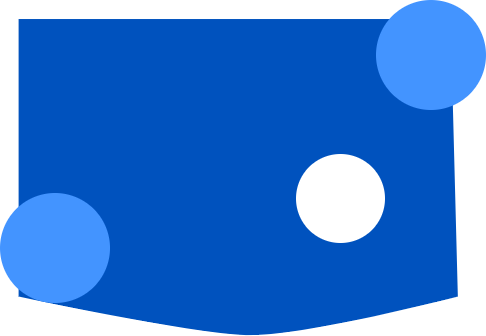
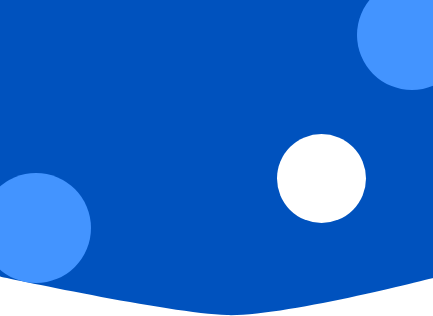
homescreen ui fix

diff --git a/src/screens/home/HomeScreen.tsx b/src/screens/home/HomeScreen.tsx
@@ -18,6 +18,7 @@ import { fetchCountryList } from '../../api/country/CountryListSlice';
 import { fetchCurrencyList } from '../../api/currency/CurrencyListSlice';
 import CountrySelectionModal from '../../components/CountrySelectionModal';
 import { CommonContext } from '../../api/commonContext';
+import HomeScreenSlider from '../../components/HomeScreenSlider';
 const { TextField } = Incubator;
 export type HomeScreenNavigationProps = NativeStackNavigationProp<
   RootStackParams,
@@ -92,15 +93,16 @@ const HomeScreen: React.FC<Props> = () => {
   return (
     <View flex backgroundColor="#FFFFFF" paddingB-60>
       <ImageBackground
-        source={dashboardLists?.data.slider != null ? { uri: 'https://admin-jamal.prompttechdemohosting.com/' + dashboardLists.data.slider[1].file } : null}
+      source={AppImages.BGIMAGE}
+        // source={dashboardLists?.data.slider != null ? { uri: 'https://admin-jamal.prompttechdemohosting.com/' + dashboardLists.data.slider[1].file } : null}
         style={styles.topBackground}
-        resizeMode='contain'
+        resizeMode='stretch'
       >
         <Text style={{ fontSize: 15, fontFamily: AppFonts.POPPINS_SEMIBOLD, color: 'white', width: '30%' }}>Red sea Market</Text>
-        <Text style={{ alignSelf: 'center', fontSize: 16, fontFamily: AppFonts.POPPINS_BOLD, color: 'white' }}>{dashboardLists?.data.slider != null ? dashboardLists?.data.slider.name : ''}</Text>
+      
+      <HomeScreenSlider data={dashboardLists?.data.slider}/>
+
         <View center style={styles.rowContainer}>
-
-
           <SelectDropdown
             data={countryLists?.country || []}
             onSelect={(selectedItem, index) => {
@@ -119,7 +121,7 @@ const HomeScreen: React.FC<Props> = () => {
             rowTextForSelection={(item, index) => {
               return item.name + ', ' + item.code;
             }}
-            buttonStyle={styles.dropdown1BtnStyle}
+            buttonStyle={[styles.dropdown1BtnStyle,{elevation:10}]}
             buttonTextStyle={styles.dropdown1BtnTxtStyle}
             renderDropdownIcon={isOpened => {
               return <Image source={AppImages.ARROW_DOWN} />;
@@ -130,12 +132,11 @@ const HomeScreen: React.FC<Props> = () => {
             rowTextStyle={styles.dropdown1RowTxtStyle}
           />
           <TextField
-            fieldStyle={styles.textFieldStyle}
-            style={{ fontSize: 12 }}
+            fieldStyle={[styles.textFieldStyle,{elevation:10}]}
+            style={styles.text}
             paddingV-5
             paddingH-2
             placeholder={'What are you looking for ?'}
-            keyboardType="default"
             leadingAccessory={<Image source={AppImages.SEARCH} style={{ width: 18, height: 18, right: 5 }} />}
           />
           <SelectDropdown
@@ -143,15 +144,15 @@ const HomeScreen: React.FC<Props> = () => {
             onSelect={(selectedItem, index) => {
               console.log(selectedItem)
             }}
-            defaultButtonText={'Language'}
+            defaultButtonText={'UK'}
             buttonTextAfterSelection={(selectedItem, index) => {
               return selectedItem.name
             }}
             rowTextForSelection={(item, index) => {
               return item.name + ', ' + item.code;
             }}
-            buttonStyle={styles.dropdown1BtnStyle}
-            buttonTextStyle={styles.dropdown1BtnTxtStyle}
+            buttonStyle={[styles.dropdown1BtnStyle,{elevation:10}]}
+            buttonTextStyle={styles.text}
             renderDropdownIcon={isOpened => {
               return <Image source={AppImages.ARROW_DOWN} />;
             }}
@@ -169,11 +170,11 @@ const HomeScreen: React.FC<Props> = () => {
         onRequestClose={() => setShowCountryModal(false)}
       />
 
-      <View padding-20>
+      <View padding-20 marginT-10>
         <Text style={styles.categoryText}>Category</Text>
         <FlatList
           data={dashboardLists?.data.categories}
-          numColumns={4}
+          horizontal={true}
           showsHorizontalScrollIndicator={false}
           renderItem={({ item, index }) => {
             return (
@@ -186,6 +187,7 @@ const HomeScreen: React.FC<Props> = () => {
                     navigation.navigate(RouteNames.CategoryListScreen, { cat_Id: item.id, name: item.name, countryId: commonInput.common_country_id })
                   }
                 }}>
+                  <View center>
                   <Image
                     source={
                       item.image == null
@@ -195,6 +197,8 @@ const HomeScreen: React.FC<Props> = () => {
                     style={{ width: 55, height: 35 }}
                     resizeMode="contain"
                   />
+                  <Text style={styles.categoryTitle}>{item.name}</Text>
+                  </View>
                 </TouchableOpacity>
               </View>
             );

diff --git a/src/components/HomeScreenSlider.tsx b/src/components/HomeScreenSlider.tsx
@@ -1,0 +1,45 @@
+import React, { useEffect, useState } from 'react';
+import Carousel from 'react-native-reanimated-carousel';
+import {  Text, View } from 'react-native-ui-lib';
+import { Dimensions, FlatList, Image } from 'react-native';
+import AppFonts from '../constants/AppFonts';
+
+
+const HomeScreenSlider = ({data}) => {
+    const width = Dimensions.get('window').width;
+    const [currentIndex, setCurrentIndex] = useState(0);
+console.log(currentIndex)
+    return (
+        <View >
+        <Carousel
+        loop
+        width={width}
+        height={140}
+        autoPlay={true}
+        data={data}
+        onSnapToItem={(index) => setCurrentIndex(index)}
+        renderItem={({ item }) => (
+            <View row marginH-30 style={{justifyContent:'space-between'}}>
+                <Text style={{fontSize:14, fontFamily:AppFonts.POPPINS_BOLD,color:'white',
+                // transform: [{ rotate: '-5deg' }],
+                top:20}}>{item.title}</Text>
+                <Image source={{uri:'https://admin-jamal.prompttechdemohosting.com/' + item.file}} 
+                style={{width:220,height:100,top:40}}/>
+            </View>
+        )}
+    />
+     <FlatList
+    data={data}
+    horizontal
+    renderItem={({item,index})=>(
+        currentIndex == index ?
+     <View center marginH-3 style={{ width: 10,height: 10,borderRadius: 6,borderColor: 'white',borderWidth:1}}>
+        <View marginH-3 style={{ width: 5,height: 5,borderRadius: 6,backgroundColor: 'white'}}/>
+        </View>
+     : <View marginH-3 style={{ width: 10,height: 10,borderRadius: 6,backgroundColor: 'white'}}/>
+    )}/>
+    </View>
+    )
+}
+
+export default HomeScreenSlider;

diff --git a/src/screens/home/styles.ts b/src/screens/home/styles.ts
@@ -1,20 +1,22 @@
-import { StyleSheet } from "react-native";
+import { Dimensions, StyleSheet } from "react-native";
 import AppFonts from "../../constants/AppFonts";
 import AppColors from "../../constants/AppColors";
+const screenWidth = Dimensions.get('window').width
 
 const styles = StyleSheet.create({
   topBackground:{
-    backgroundColor:AppColors.darkBlue,
-    height:200,
     justifyContent:'space-between',
     paddingHorizontal:10,
-    paddingTop:20
+    paddingTop:20,
+    width: screenWidth,
+    height:270,
   },
     rowContainer: {
         flexDirection: 'row',
         justifyContent: 'space-between',
         alignItems: 'center',
         width:'100%',
+        top:8
       },
       dropdown1BtnStyle: {
         backgroundColor: 'white',
@@ -22,7 +24,7 @@ const styles = StyleSheet.create({
         borderWidth: 1,
         borderColor: 'white',
         height: 40,
-        width:'23%',
+        width:'25%',
         
       },
       dropdown1BtnTxtStyle: { color: '#444', textAlign: 'right' },
@@ -61,6 +63,16 @@ const styles = StyleSheet.create({
         fontSize:8,
         color:'#000000',
         fontFamily:AppFonts.POPPINS_EXTRA_LIGHT
+      },
+      text:{
+        fontSize:12,
+        fontFamily:AppFonts.POPPINS_EXTRA_LIGHT,
+        color:AppColors.darkBlue
+      },
+      categoryTitle:{
+        fontSize:12,
+        color:'#000000',
+        fontFamily:AppFonts.POPPINS_REGULAR
       }
   });
 
